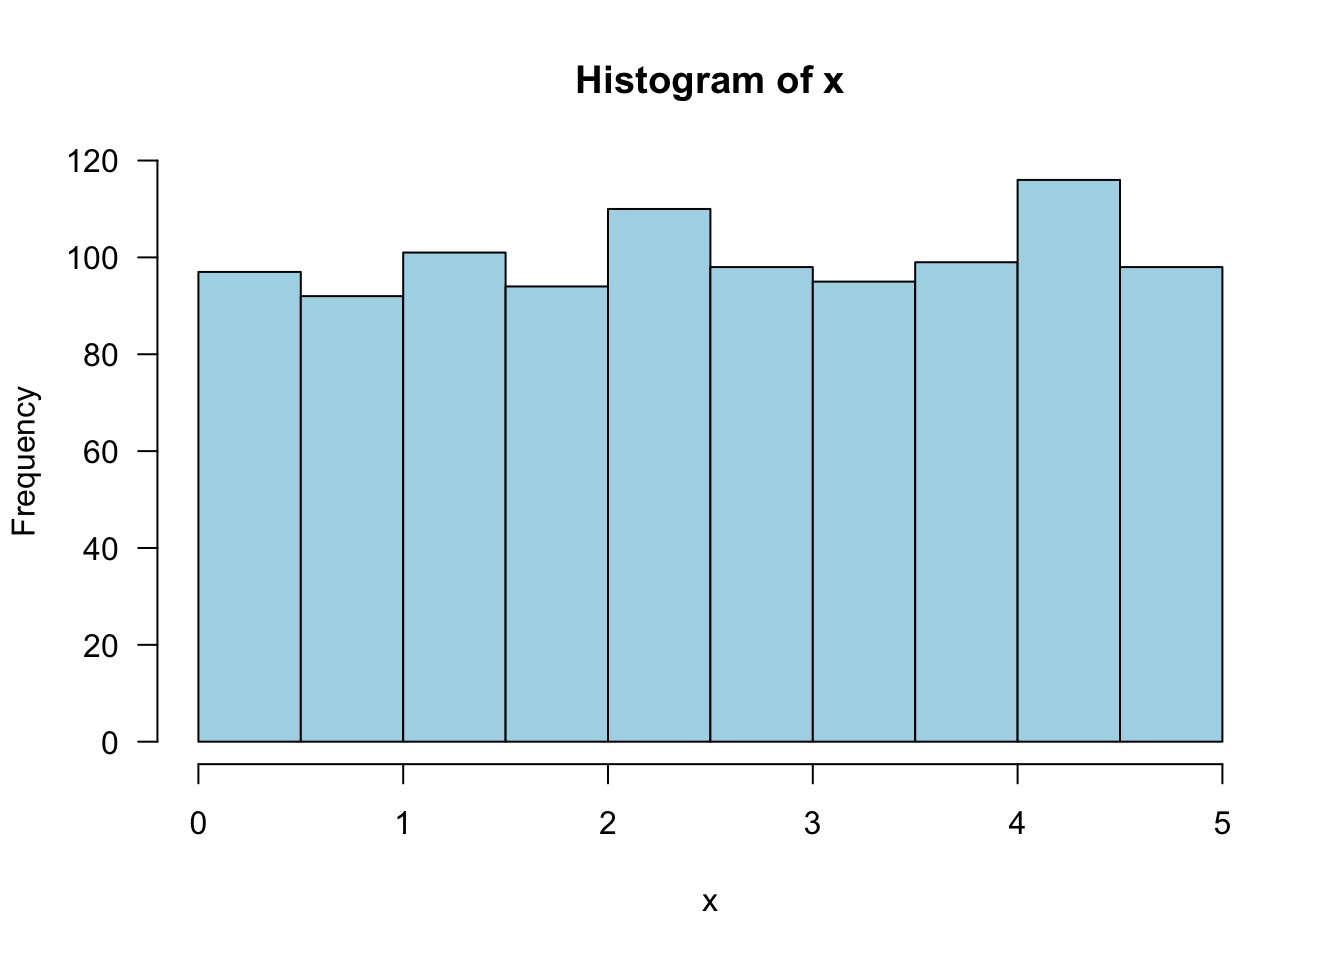
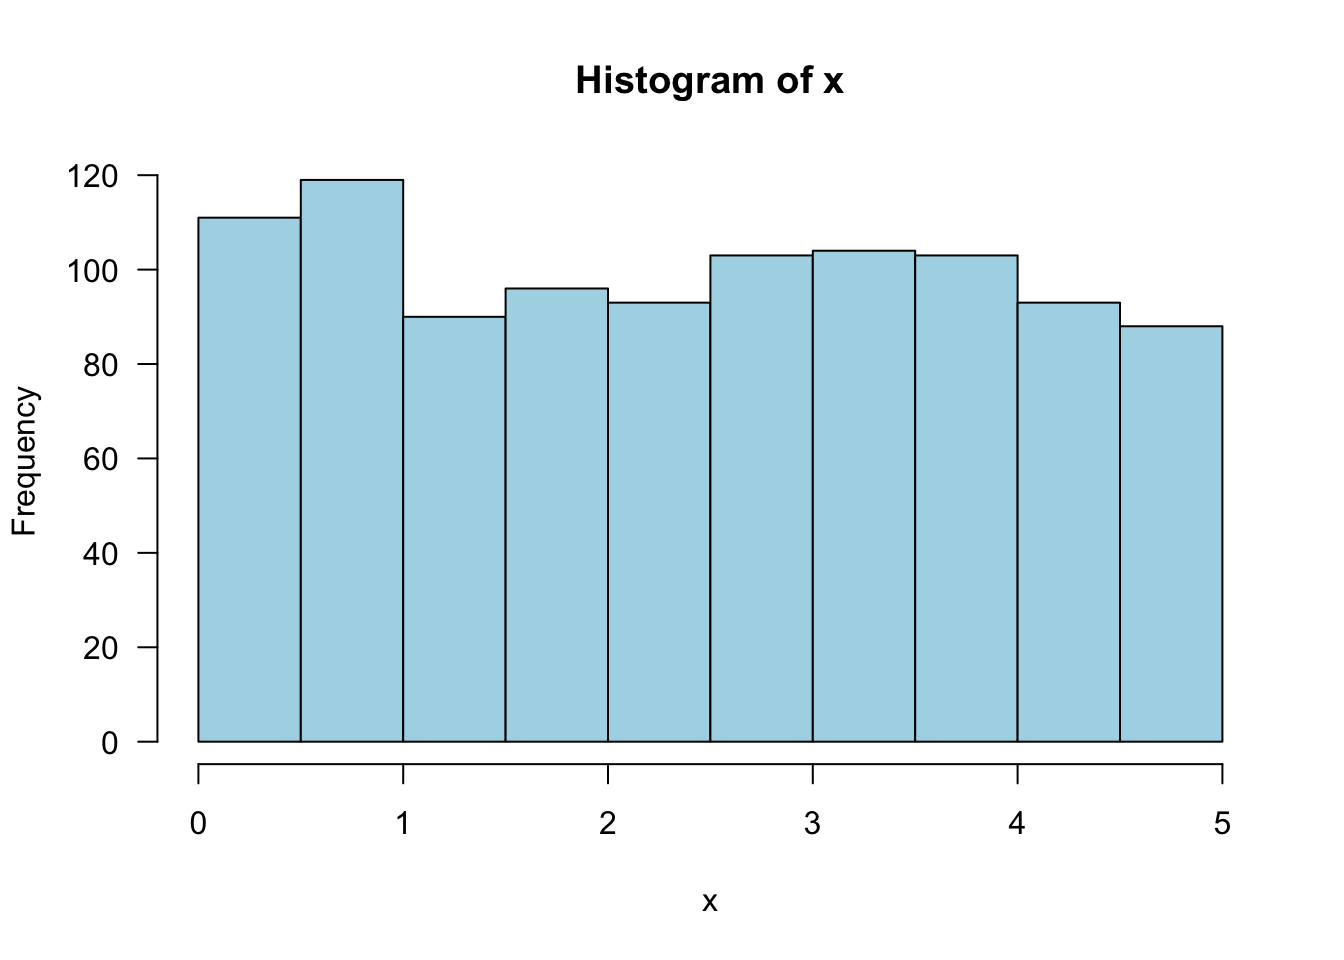
render book w/ think 7 link

diff --git a/docs/ch-7-statistical-intervals-based-on-a-single-sample.html b/docs/ch-7-statistical-intervals-based-on-a-single-sample.html
@@ -25,7 +25,7 @@
 <meta name="author" content="Joyce Robbins">
 
 
-<meta name="date" content="2019-03-25">
+<meta name="date" content="2019-03-28">
 
   <meta name="viewport" content="width=device-width, initial-scale=1">
   <meta name="apple-mobile-web-app-capable" content="yes">
@@ -270,7 +270,8 @@ code span.wa { color: #60a0b0; font-weight: bold; font-style: italic; } /* Warni
 <h2>7.2 Large-Sample Confidence Intervals for a Population Mean and Proportion</h2>
 <p>You may use: <span class="math inline">\(\hat{p} \pm z_{\alpha/2} \sqrt{\frac{\hat{p}\hat{q}}{n}}\)</span>, rather than the formula (7.10) in the blue box on p. 289 for large sample confidence intervals for proportions, skip p. 290</p>
 <p>You may use the method from class <span class="math inline">\(n = \frac{4z^2\hat{p}\hat{q}}{w^2}\)</span> for the minimum <span class="math inline">\(n\)</span> needed to ensure a particular confidence interval width for proportions, rather than formula (7.12) – both appear on p. 291. As noted in Example 7.9 on p. 291, the easier formula gives a slightly different answer (385 instead of 381).</p>
-<p><a href="https://github.com/jtr13/1201/blob/master/pdfs/LargeSampleCIforPopulationProportion.pdf" target="_blank">Additional material on CI for proportions</a></p>
+<p><a href="https://github.com/jtr13/1201/blob/master/pdfs/LargeSampleCIforPopulationProportion.pdf" target="_blank">Additional textbook material on CI for proportions</a></p>
+<p><a href="https://www.nytimes.com/2016/10/06/upshot/when-you-hear-the-margin-of-error-is-plus-or-minus-3-percent-think-7-instead.html" target="_blank">“When You Hear the Margin of Error Is Plus or Minus 3 Percent, Think 7 Instead”</a>, New York Times, Oct 5, 2016.</p>
 </div>
 <div id="intervals-based-on-a-normal-population-distribution" class="section level2 unnumbered">
 <h2>7.3 Intervals Based on a Normal Population Distribution</h2>

diff --git a/docs/ch-4-continuous-random-variables-and-probability-distributions.html b/docs/ch-4-continuous-random-variables-and-probability-distributions.html
@@ -25,7 +25,7 @@
 <meta name="author" content="Joyce Robbins">
 
 
-<meta name="date" content="2019-03-25">
+<meta name="date" content="2019-03-28">
 
   <meta name="viewport" content="width=device-width, initial-scale=1">
   <meta name="apple-mobile-web-app-capable" content="yes">
@@ -271,11 +271,11 @@ code span.wa { color: #60a0b0; font-weight: bold; font-style: italic; } /* Warni
 <p>Randomly choose one number from the distribution:</p>
 <p><span class="math inline">\(f(x) = .2\)</span> for <span class="math inline">\(0 \leq x \leq 5\)</span>, 0 otherwise.</p>
 <pre class="sourceCode r"><code class="sourceCode r"><span class="kw">runif</span>(<span class="dt">n =</span> <span class="dv">1</span>, <span class="dt">min =</span> <span class="dv">0</span>, <span class="dt">max =</span> <span class="dv">5</span>)</code></pre>
-<pre><code>## [1] 4.419866</code></pre>
+<pre><code>## [1] 4.443641</code></pre>
 <p>Take the average of 1000 picks:</p>
 <pre class="sourceCode r"><code class="sourceCode r">x &lt;-<span class="st"> </span><span class="kw">runif</span>(<span class="dt">n =</span> <span class="dv">1000</span>, <span class="dt">min =</span> <span class="dv">0</span>, <span class="dt">max =</span> <span class="dv">5</span>)
 <span class="kw">mean</span>(x)</code></pre>
-<pre><code>## [1] 2.538322</code></pre>
+<pre><code>## [1] 2.431912</code></pre>
 <p>Draw a histogram of the 1000 picks:</p>
 <pre class="sourceCode r"><code class="sourceCode r"><span class="kw">hist</span>(x, <span class="dt">las =</span> <span class="dv">1</span>, <span class="dt">col =</span> <span class="st">&quot;lightblue&quot;</span>)</code></pre>
 <p><img src="STAT1201-resource_files/figure-html/unnamed-chunk-29-1.png" width="672" /></p>

diff --git a/docs/index.html b/docs/index.html
@@ -25,7 +25,7 @@
 <meta name="author" content="Joyce Robbins">
 
 
-<meta name="date" content="2019-03-25">
+<meta name="date" content="2019-03-28">
 
   <meta name="viewport" content="width=device-width, initial-scale=1">
   <meta name="apple-mobile-web-app-capable" content="yes">
@@ -262,7 +262,7 @@ code span.wa { color: #60a0b0; font-weight: bold; font-style: italic; } /* Warni
 <div id="header">
 <h1 class="title">Stat 1201 Supplemental Materials</h1>
 <p class="author"><em>Joyce Robbins</em></p>
-<p class="date"><em>2019-03-25</em></p>
+<p class="date"><em>2019-03-28</em></p>
 </div>
 <div id="introduction" class="section level1 unnumbered">
 <h1>Introduction</h1>

diff --git a/docs/ch-1-descriptive-statistics.html b/docs/ch-1-descriptive-statistics.html
@@ -25,7 +25,7 @@
 <meta name="author" content="Joyce Robbins">
 
 
-<meta name="date" content="2019-03-25">
+<meta name="date" content="2019-03-28">
 
   <meta name="viewport" content="width=device-width, initial-scale=1">
   <meta name="apple-mobile-web-app-capable" content="yes">

diff --git a/docs/ch-12-linear-regression.html b/docs/ch-12-linear-regression.html
@@ -25,7 +25,7 @@
 <meta name="author" content="Joyce Robbins">
 
 
-<meta name="date" content="2019-03-25">
+<meta name="date" content="2019-03-28">
 
   <meta name="viewport" content="width=device-width, initial-scale=1">
   <meta name="apple-mobile-web-app-capable" content="yes">

diff --git a/docs/ch-13-nonlinear-and-multiple-regression.html b/docs/ch-13-nonlinear-and-multiple-regression.html
@@ -25,7 +25,7 @@
 <meta name="author" content="Joyce Robbins">
 
 
-<meta name="date" content="2019-03-25">
+<meta name="date" content="2019-03-28">
 
   <meta name="viewport" content="width=device-width, initial-scale=1">
   <meta name="apple-mobile-web-app-capable" content="yes">

diff --git a/docs/ch-14-chi-squared-test.html b/docs/ch-14-chi-squared-test.html
@@ -25,7 +25,7 @@
 <meta name="author" content="Joyce Robbins">
 
 
-<meta name="date" content="2019-03-25">
+<meta name="date" content="2019-03-28">
 
   <meta name="viewport" content="width=device-width, initial-scale=1">
   <meta name="apple-mobile-web-app-capable" content="yes">

diff --git a/docs/ch-2-conditional-probability.html b/docs/ch-2-conditional-probability.html
@@ -25,7 +25,7 @@
 <meta name="author" content="Joyce Robbins">
 
 
-<meta name="date" content="2019-03-25">
+<meta name="date" content="2019-03-28">
 
   <meta name="viewport" content="width=device-width, initial-scale=1">
   <meta name="apple-mobile-web-app-capable" content="yes">

diff --git a/docs/ch-2-probability.html b/docs/ch-2-probability.html
@@ -25,7 +25,7 @@
 <meta name="author" content="Joyce Robbins">
 
 
-<meta name="date" content="2019-03-25">
+<meta name="date" content="2019-03-28">
 
   <meta name="viewport" content="width=device-width, initial-scale=1">
   <meta name="apple-mobile-web-app-capable" content="yes">

diff --git a/docs/ch-3-discrete-distributions.html b/docs/ch-3-discrete-distributions.html
@@ -25,7 +25,7 @@
 <meta name="author" content="Joyce Robbins">
 
 
-<meta name="date" content="2019-03-25">
+<meta name="date" content="2019-03-28">
 
   <meta name="viewport" content="width=device-width, initial-scale=1">
   <meta name="apple-mobile-web-app-capable" content="yes">

diff --git a/docs/ch-5-joint-probability.html b/docs/ch-5-joint-probability.html
@@ -25,7 +25,7 @@
 <meta name="author" content="Joyce Robbins">
 
 
-<meta name="date" content="2019-03-25">
+<meta name="date" content="2019-03-28">
 
   <meta name="viewport" content="width=device-width, initial-scale=1">
   <meta name="apple-mobile-web-app-capable" content="yes">

diff --git a/docs/ch-5-random-samples.html b/docs/ch-5-random-samples.html
@@ -25,7 +25,7 @@
 <meta name="author" content="Joyce Robbins">
 
 
-<meta name="date" content="2019-03-25">
+<meta name="date" content="2019-03-28">
 
   <meta name="viewport" content="width=device-width, initial-scale=1">
   <meta name="apple-mobile-web-app-capable" content="yes">
